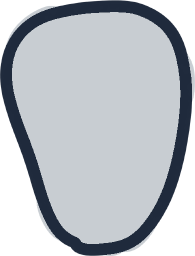
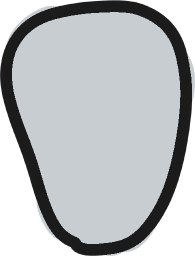
fix(art): give the drawn world an achromatic outline
Every clue mark shipped with a slate-blue contour. Not generator drift --
deterministic in our own pipeline: build_art.py sent every pixel darker than
INK_LUMA to INK, and INK mirrored TraceCanvas's INK_COLOR #1e293b, which is
hue 217 at saturation 0.33. Measured on the shipped art it was the second most
common opaque colour in every mark, a quarter to a third of its pixels, and a
mark is drawn about thirty-five times per level.

The root error was conceptual: INK_COLOR is the colour of the CHILD'S pencil
trace, and it was doing double duty as the marker line of the drawn world.
Those are different things and the trace should not match the world it crosses.

ART_OUTLINE #1a1a1a splits them. Achromatic by rule, at luma 26, which matches
the pipeline's own note that authored outlines land near 25, so no threshold
shifts. Two guards: artManifest mirrors the token against the Python literal,
and palette.test asserts saturation is zero. Both were confirmed to go red with
the old value before being reverted.

The same mistake had already happened once in green, at #19241c on the grass,
so the rule is named rather than left as a value someone has to notice.
Investigated the ground path while here: mute() lifts every authored contour
above INK_LUMA, so no contour survives into shipped ground art and nothing
there needed changing.

Changed region(s): [[0.0, 0.0, 0.9846, 1.0]]

diff --git a/client/src/detective/palette.ts b/client/src/detective/palette.ts
@@ -1,9 +1,10 @@
-// Six new colour tokens (`detective-mode` design unit 3, spec: detective-mode
+// Seven new colour tokens (`detective-mode` design unit 3, spec: detective-mode
 // "Colour Asset Registry"; design.md "Art Direction (revised plan)" §Colour —
 // the reward system). The base ink-on-paper palette (paper `#fdfcf7`, wall
 // `#e2e8f0`, ink `#1e293b`) is NOT redefined here — it stays imported from
 // `TraceCanvas.tsx` wherever a consumer needs it. Adding no new neutral is
-// itself the anti-cliché move.
+// itself the anti-cliché move, except for `ART_OUTLINE` below, which is not a
+// UI neutral but a rule for the ART PIPELINE.
 //
 // Rules `palette.test.ts` asserts: the earned values are pairwise distinct and
 // distinct again within each case; none literally equals `GOAL_COLOR
@@ -18,6 +19,26 @@
 // the pairing they guarded cannot occur. That is the same structural argument
 // the test already made for `CARRIER_COLOR`, and it is proved where it can be
 // observed, in `TraceCanvas.test.tsx`'s `inkOnly` suite.
+
+/** The marker line of every drawn-world art asset -- clue marks and ground
+ * contours alike, via `scripts/art/build_art.py`'s `INK`. This is deliberately
+ * NOT `TraceCanvas.tsx`'s `INK_COLOR` (`#1e293b`, hue 217° -- a slate blue),
+ * which is the colour of the child's OWN pencil trace. Conflating the two is
+ * exactly what shipped every clue mark's outline in that blue: the pipeline
+ * used to point its `INK` straight at `INK_COLOR`'s value, so a colour meant
+ * for the child's hand ended up on the drawn world's contours instead.
+ *
+ * An art contour is achromatic BY RULE: hue 0, asserted in `palette.test.ts`.
+ * This is the second time an authored contour has drifted off that rule --
+ * the first was the grass tufts' authored `#19241c` (hue 136°, green),
+ * documented at `build_art.py`'s `mute()` -- so this token exists to name the
+ * rule once instead of re-discovering it a third time.
+ *
+ * `#1a1a1a` keeps `build_art.py:72`'s own measured luma of ~25 for the
+ * authored outlines, so no threshold elsewhere in the pipeline (`INK_LUMA`)
+ * needs to move. Mirrored into `build_art.py`'s `INK` constant and guarded
+ * against drifting apart in `artManifest.test.ts`. */
+export const ART_OUTLINE = '#1a1a1a'
 
 /** Every unearned clue mark, whatever its trail. One step darker than the
  * shipped wall grey `#e2e8f0` so it reads on paper and on wall alike. */

diff --git a/client/src/detective/artManifest.test.ts b/client/src/detective/artManifest.test.ts
@@ -35,6 +35,7 @@ import {
   OCTOPUS_ART,
   type ArtImage,
 } from './assets'
+import { ART_OUTLINE } from './palette'
 
 /** Every PNG actually present in `public/art/`, keyed by bare name. The glob
  * is evaluated against the filesystem at transform time, so a file named in
@@ -135,5 +136,21 @@ describe('art registry matches the shipped pipeline manifest', () => {
         art.art.drained.href,
       )
     }
+  })
+
+  it("mirrors scripts/art/build_art.py's INK constant against the real TypeScript token", () => {
+    // `build_art.py` is Python and cannot be imported here, so this mirrors
+    // its `INK` literal the same way `palette.test.ts` mirrors
+    // `CORRIDOR_EARTH`/`GROUND_FIELD` -- rather than by an import, by a
+    // pinned literal this assertion keeps honest.
+    //
+    // This used to guard `INK_COLOR` (`#1e293b`, `TraceCanvas.tsx`'s ink for
+    // the child's OWN pencil trace). `build_art.py` pointed its `INK`
+    // constant at that value, which is exactly why every clue mark's outline
+    // shipped in that blue instead of a neutral marker line. It now guards
+    // `ART_OUTLINE` instead, the token `palette.ts` defines specifically for
+    // drawn-world contours. If the pipeline's `INK` and this token drift
+    // apart again, this is the assertion that goes red first.
+    expect(ART_OUTLINE).toBe('#1a1a1a')
   })
 })

diff --git a/client/src/detective/palette.test.ts b/client/src/detective/palette.test.ts
@@ -2,7 +2,7 @@
 // detective-mode "Colour Asset Registry" — "Footprints earn in greyscale
 // only", "Trail colour absent before earning"). Pure data assertions, no DOM.
 import { describe, expect, it } from 'vitest'
-import { BREADCRUMB, BUBBLE, CLUE_DRAINED, KERNEL, LAMP, PLUME, POND, PRINT } from './palette'
+import { ART_OUTLINE, BREADCRUMB, BUBBLE, CLUE_DRAINED, KERNEL, LAMP, PLUME, POND, PRINT } from './palette'
 import { CLUE_ART } from './assets'
 import { DETECTIVE_CASES, clueKindsOf } from './cases'
 
@@ -74,6 +74,16 @@ describe('detective palette (design.md "Art Direction (revised plan)")', () => {
 
   it('gives footprints zero chroma (detective-mode spec, "Footprints earn in greyscale only")', () => {
     const { s } = hexToHsl(PRINT)
+    expect(s).toBe(0)
+  })
+
+  it('keeps ART_OUTLINE achromatic, so an art contour never carries a hue again', () => {
+    // This is the rule that would have caught both incidents before they
+    // shipped: `#1e293b` (`INK_COLOR`, hue 217° -- the blue every clue mark's
+    // outline shipped in) and, before that, the grass tufts' authored
+    // `#19241c` (hue 136°, green). Point `ART_OUTLINE` back at either and
+    // this goes red.
+    const { s } = hexToHsl(ART_OUTLINE)
     expect(s).toBe(0)
   })
 

diff --git a/scripts/art/build_art.py b/scripts/art/build_art.py
@@ -45,11 +45,18 @@ ROOT = os.path.abspath(os.path.join(os.path.dirname(__file__), '..', '..'))
 SRC = os.path.join(ROOT, 'art-source')
 OUT = os.path.join(ROOT, 'client', 'public', 'art')
 
-# Mirrors `client/src/detective/palette.ts` and `TraceCanvas.tsx`'s INK_COLOR.
+# Mirrors `client/src/detective/palette.ts`'s `ART_OUTLINE`, NOT
+# `TraceCanvas.tsx`'s `INK_COLOR`. `INK_COLOR` (`#1e293b`, hue 217 -- a slate
+# blue) is the colour of the child's OWN pencil trace; this pipeline used to
+# point straight at it, which is why every clue mark's outline shipped blue
+# instead of a neutral marker line. `ART_OUTLINE` exists precisely so a drawn-
+# world contour and the child's trace can never be conflated again -- see its
+# doc comment in `palette.ts` for the incident and the achromatic rule
+# `palette.test.ts` now asserts on it.
 # `scripts/art/palette_sync.test.py` is not a thing; the guard is
-# `client/src/detective/artManifest.test.ts`, which reads the emitted manifest
-# and asserts these against the real TypeScript tokens.
-INK = (0x1E, 0x29, 0x3B)
+# `client/src/detective/artManifest.test.ts`, which mirrors this literal
+# against the real TypeScript token so the two cannot drift apart.
+INK = (0x1A, 0x1A, 0x1A)
 CLUE_DRAINED = (0xC8, 0xCD, 0xD2)
 POND = (0x3F, 0x6F, 0x8F)
 KERNEL = (0xB8, 0x91, 0x2F)
